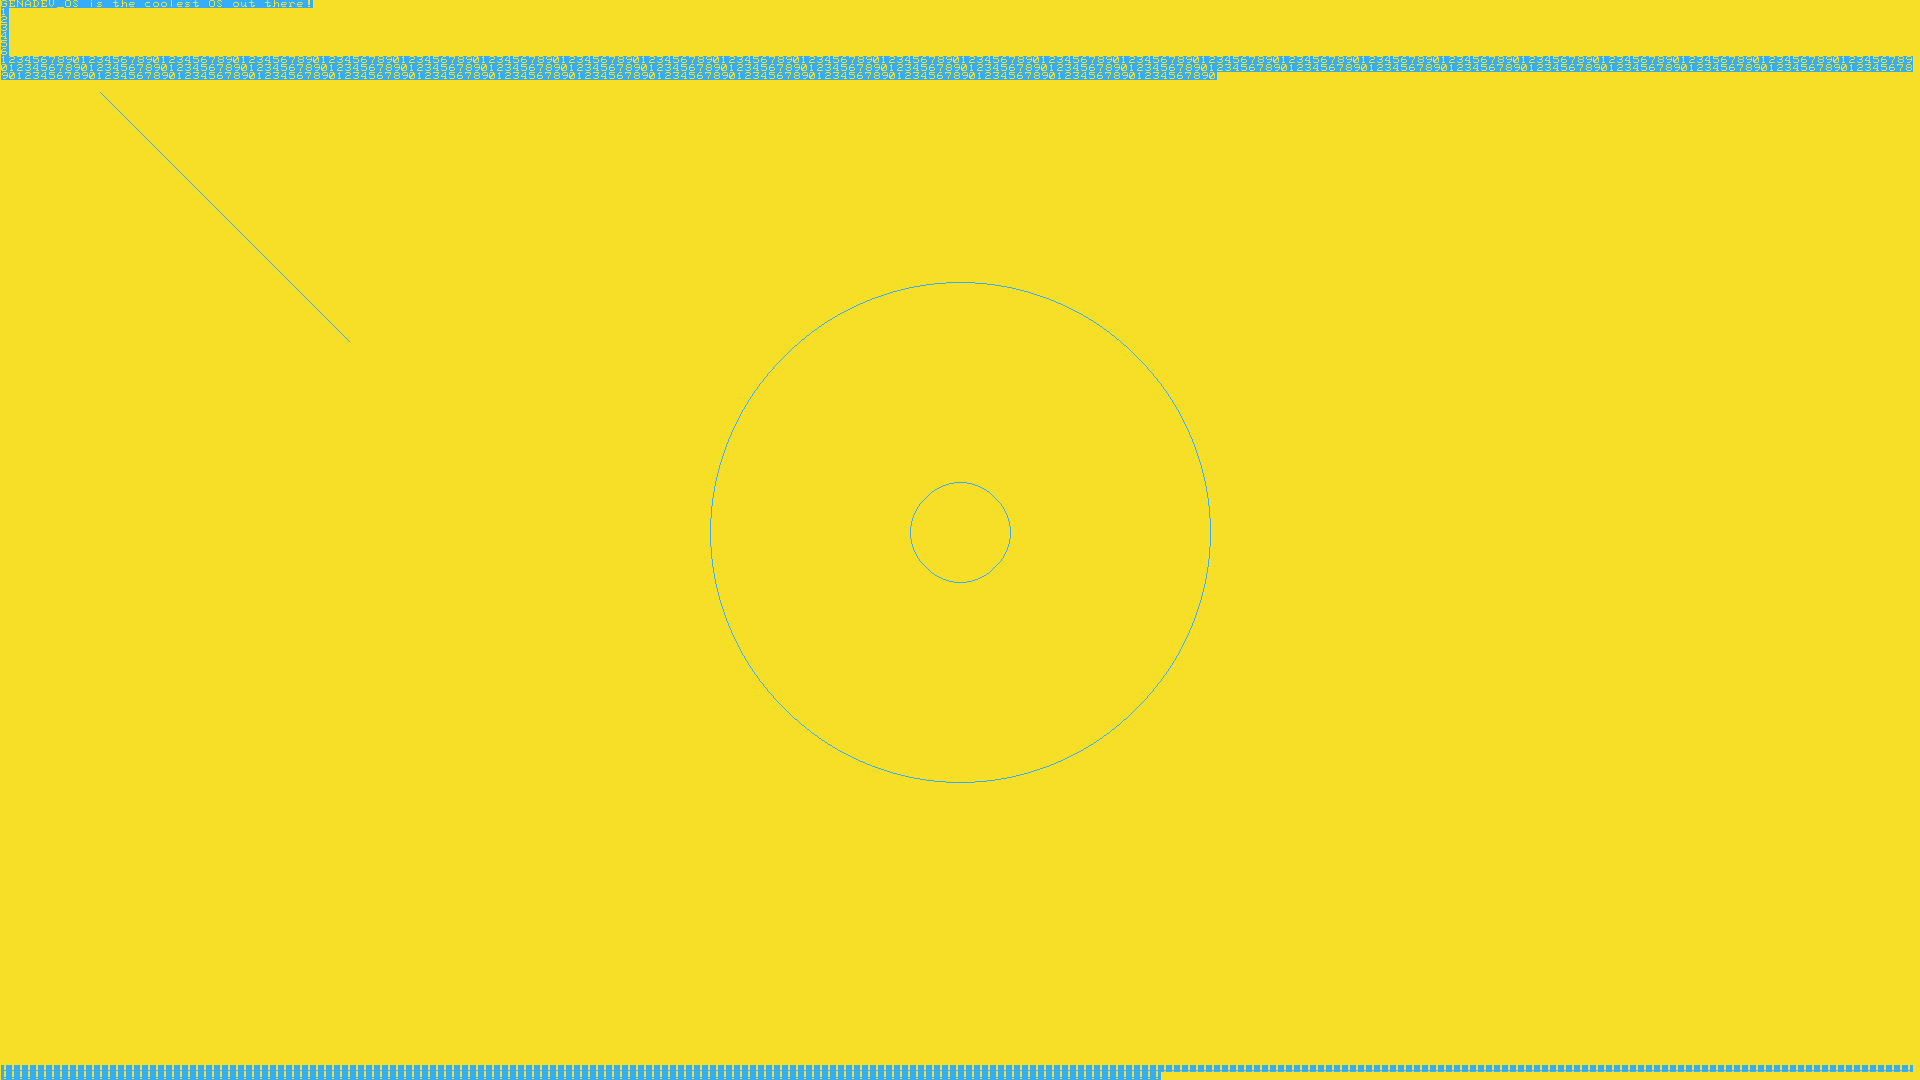
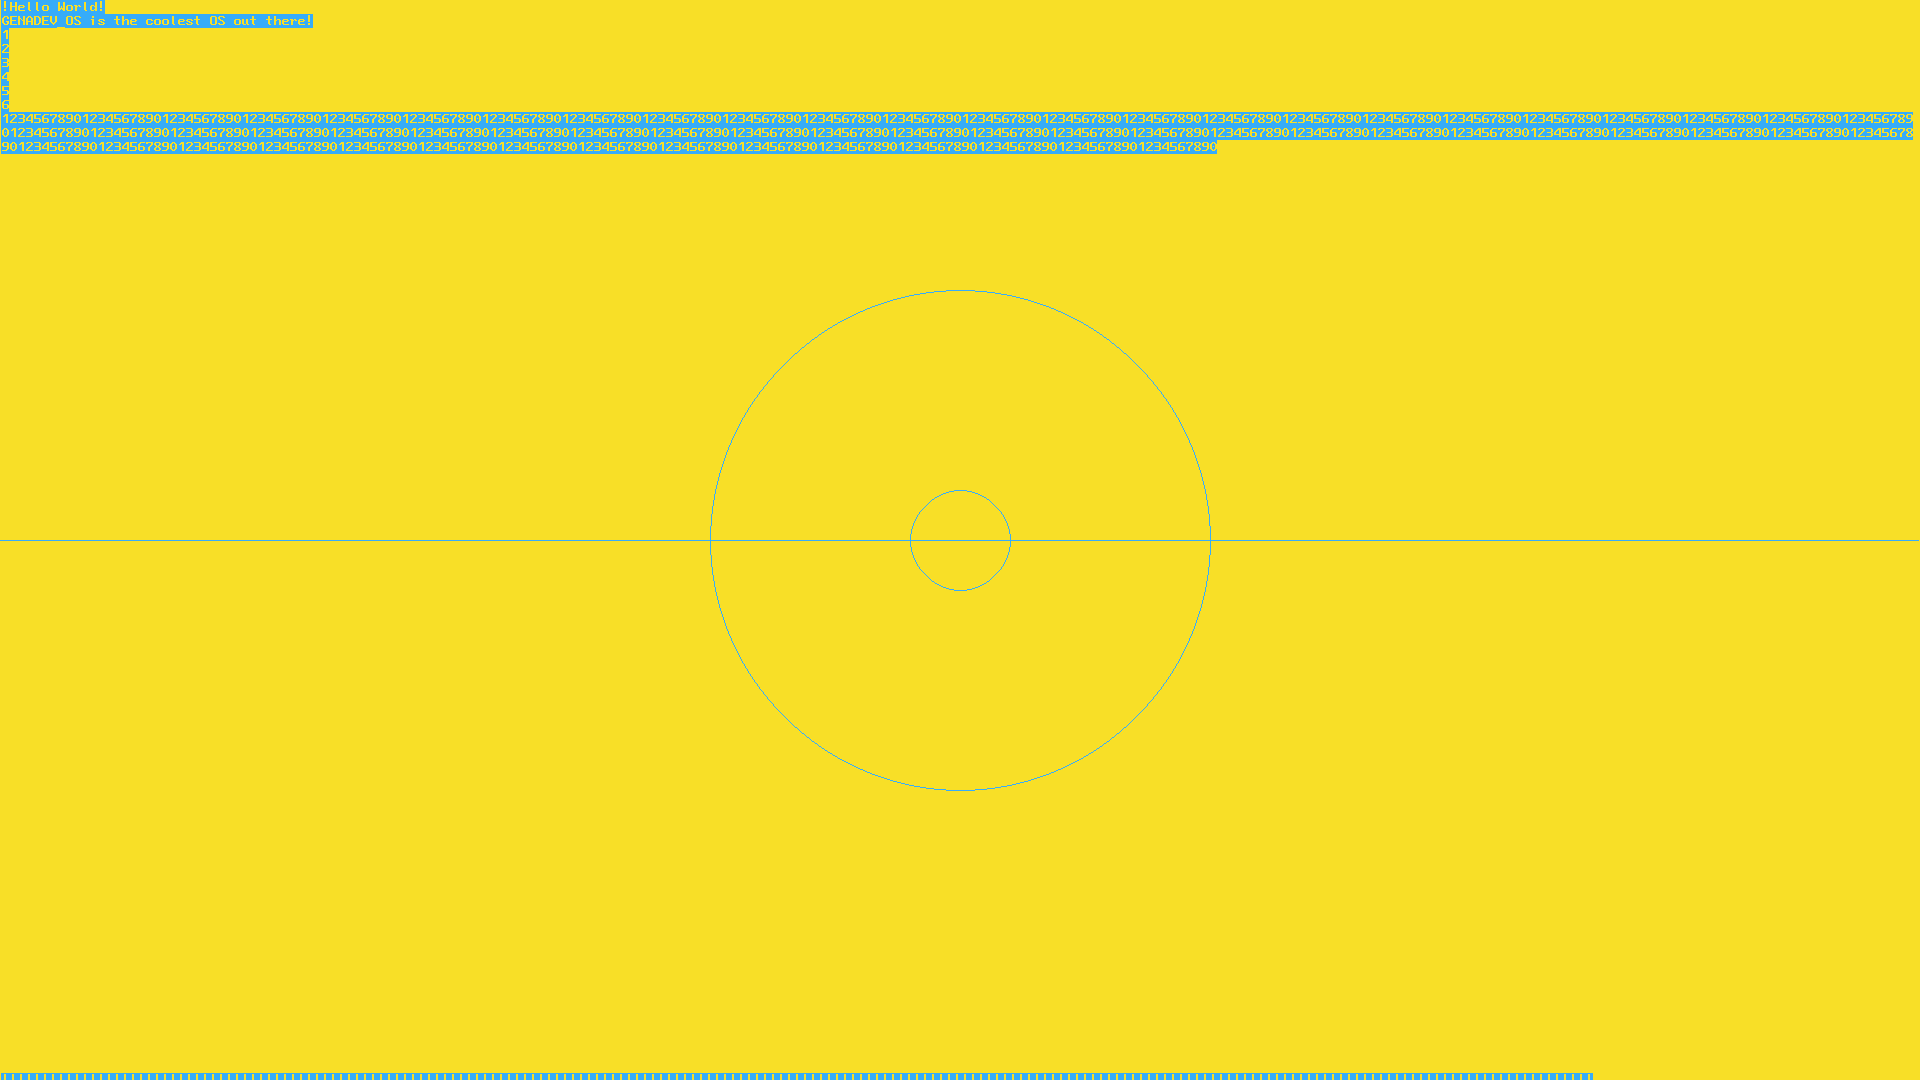
[new] small changes + updated framebuffer screenshot (new font)

Changed region(s): [[0.0, 0.0, 1.0, 0.1528], [0.0, 0.9778, 1.0, 1.0]]

diff --git a/src/kernel/hardware/framebuffer/framebuffer.c b/src/kernel/hardware/framebuffer/framebuffer.c
@@ -312,7 +312,7 @@ void framebuffer_test(void)
 {
 	framebuffer_set_background_color(0xFF27DFF8);
 
-	framebuffer_draw_line(100, 100, 350, 700, 0xFFF9AC37);
+	framebuffer_draw_line(0, 540, 1919, 540, 0xFFF9AC37);
 	framebuffer_draw_circle(960, 540, 250, 0xFFF9AC37);
 	framebuffer_draw_circle(960, 540, 50, 0xFFF9AC37);
 
@@ -336,11 +336,6 @@ void framebuffer_test(void)
 
 		for (int i = 0; i <= 5000000; i++) {}
 	}
-
-	// framebuffer_print_string("123456789012345678901234567890123456789012345678901234567890123456789012345678901234567890123456789012345678901234567890123456789012345678901234567890123456789012345678901234567890123456789012345678901234567890123456789012345678901234567890123456789012345678901234567890123456789012345678901234567890123456789012345678901234567890123456789012345678901234567890123456789012345678901234567890123456789012345678901234567890123456789012345678901234567890123456789012345678901234567890123456789012345678901234567890123456789012345678901234567890123456789012345678901234567890123456789012345678901234567890123456789012345678901234567890", 0xFF27DFF8, 0xFFF9AC37);
-
-	// framebuffer_move_one_row_up();
-	// framebuffer_move_one_row_up();
 
 	// framebuffer_reset_screen();
 }
